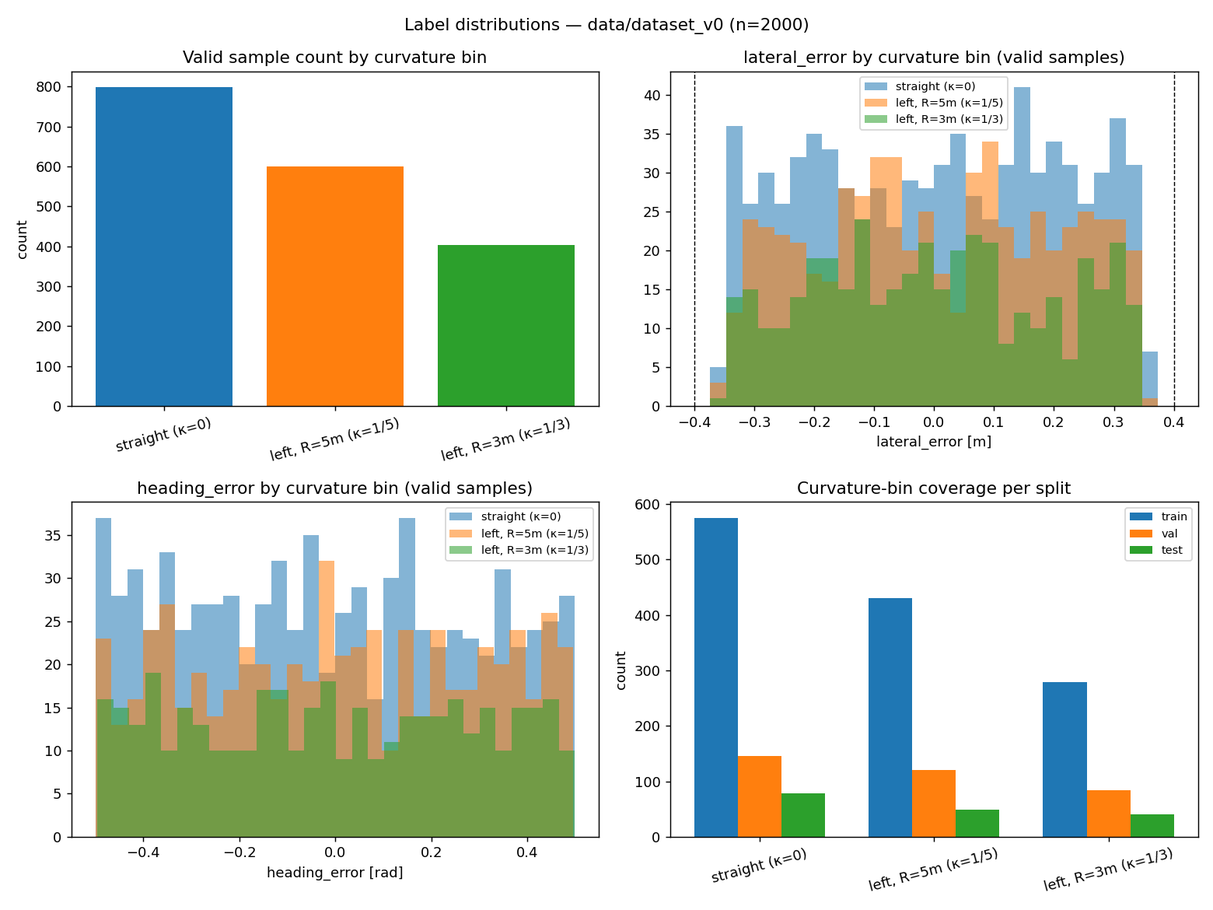
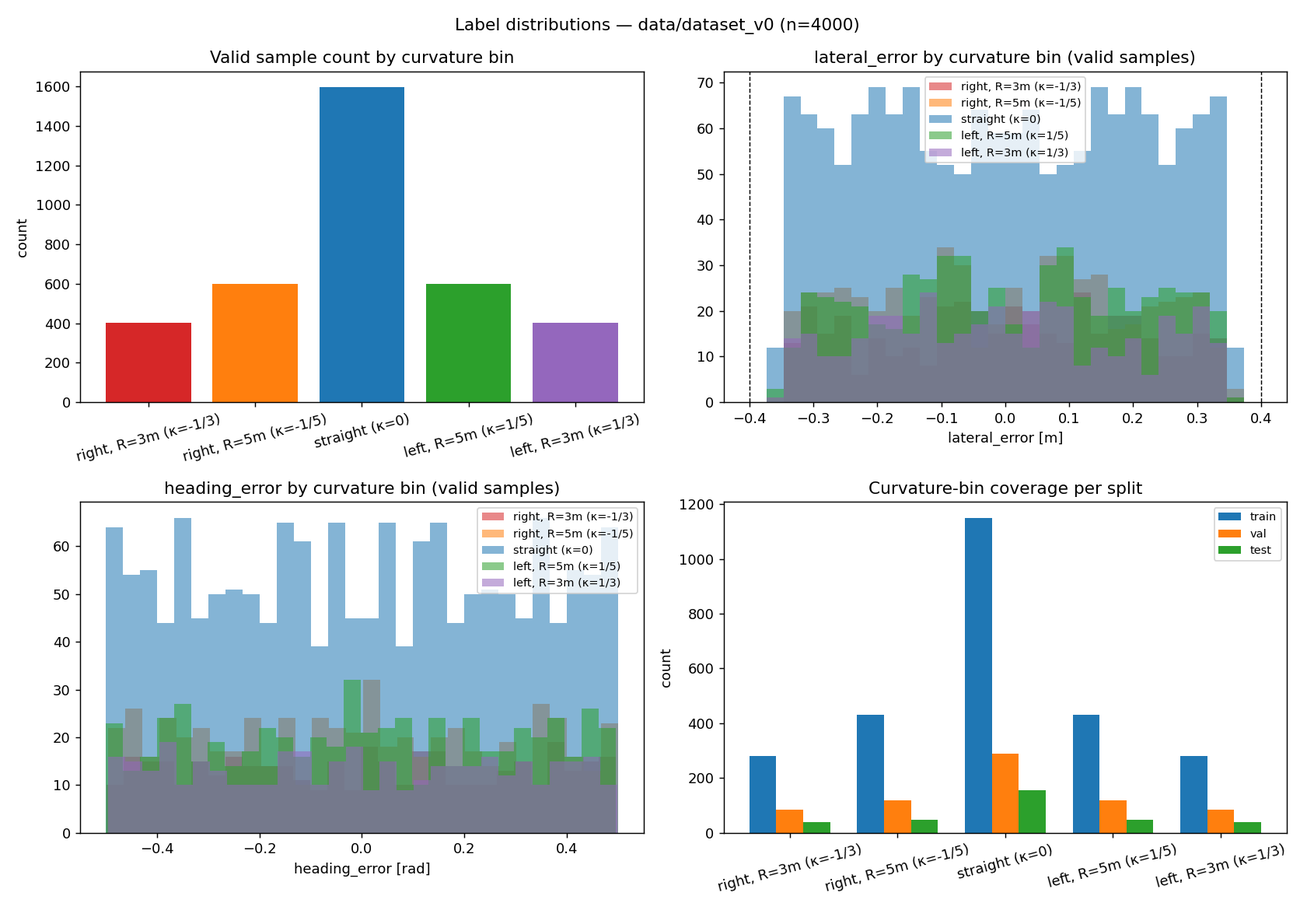
Mirror-augment dataset: track only turns left, dataset had zero right turns
label_distributions.png's curvature-bin bar chart has three bins, kappa in
{0, 1/5, 1/3}, all non-negative -- all 1800 valid samples had curvature >= 0.
Structural, not a sampling bug: REFERENCE_TRACK is a closed loop traversed
one way, built entirely from left turns (track_definitions.py). Every check
written so far (ADR-8's visibility filter, ADR-9's per-split curvature
coverage) operates on magnitude or visibility, both identical whether
curvature can go negative -- nothing but looking at the histogram catches
this, which is exactly the M1 risk register's point about mandatory visual
inspection.

A CNN trained on this learns curvature is non-negative as a hard prior and
never predicts a right turn, invisibly, since val/test are drawn from the
same left-only distribution.

Fix: mirror-augment every sample (generate_dataset.mirror_row). Image
flipped horizontally, lateral_error/heading_error/curvature negated, pose/
split/validity copied from the source unchanged (no "mirrored world pose"
exists to invent one). Exact, not approximate: cam_front has zero lateral
offset and zero yaw/roll (sim/models/car.xml), verified directly against
point_in_camera_frame that mirroring (vehicle_y, heading) negates the
camera-frame x-coordinate and leaves image row / depth exactly unchanged.
render_dataset_images.py never re-renders a mirror through MuJoCo -- it
flips the already-rendered source PNG, removing any risk of the analytic
[…]

diff --git a/perception/dataset/generate_dataset.py b/perception/dataset/generate_dataset.py
@@ -139,6 +139,50 @@ def quat_from_heading(heading: float):
     return (math.cos(heading / 2.0), 0.0, 0.0, math.sin(heading / 2.0))
 
 
+def mirror_row(row: dict) -> dict:
+    """The mirror-augmentation twin of a labeled sample: same rendered pose,
+    horizontally-flipped image, negated lane_state.
+
+    REFERENCE_TRACK is a closed loop traversed in one direction, built
+    entirely from LEFT turns (see track_definitions.py) -- every valid
+    sample has curvature >= 0, by construction of the track, not by a
+    sampling bug. A CNN trained on this would learn "curvature is
+    non-negative" and never predict a right turn. Caught by inspecting
+    label_distributions.png rather than any unit test (same method as
+    ADR-8/ADR-9: a property invisible until the whole dataset is looked at,
+    not any single sample).
+
+    The fix is exact, not approximate: cam_front has zero lateral offset
+    (sim/models/car.xml: pos="0.16 0 0.05", x-offset only) and zero
+    yaw/roll in its mount, so mirroring the world across the vehicle's
+    forward axis (y -> -y) is geometrically identical to flipping the
+    rendered image left-right -- verified directly against
+    point_in_camera_frame: mirroring (vehicle_y, heading) negates the
+    camera-frame x-coordinate (and therefore pixel column u -> W-1-u)
+    and leaves the camera-frame y-coordinate (pixel row v) and depth
+    exactly unchanged. lateral_error, heading_error, and curvature all
+    flip sign under this same y -> -y mirror by the sign convention in
+    docs/lane-state-contract.md section 2; confidence/valid/split are
+    unaffected (visibility and track-zone membership are unchanged by
+    mirroring).
+
+    x/y/heading/s are left as the SOURCE pose's values, not a fabricated
+    "mirrored world pose" -- there is no mirrored track to place a vehicle
+    on. That also means split (a pure function of s via zone_for_s) is
+    identical to the source row's split for free: a mirror never crosses a
+    train/val/test boundary its source didn't.
+    """
+    stem, ext = os.path.splitext(row["filename"])
+    mirrored = dict(row)
+    mirrored["filename"] = f"{stem}_mirror{ext}"
+    mirrored["source_filename"] = row["filename"]
+    mirrored["lateral_error"] = -row["lateral_error"]
+    mirrored["heading_error"] = -row["heading_error"]
+    mirrored["curvature"] = -row["curvature"]
+    mirrored["mirrored"] = True
+    return mirrored
+
+
 def generate_labels(seed: int = SEED, n_total: int = N_TOTAL):
     rng = np.random.default_rng(seed)
     n_negative = int(round(n_total * NEGATIVE_FRACTION))
@@ -155,6 +199,7 @@ def generate_labels(seed: int = SEED, n_total: int = N_TOTAL):
 
         rows.append({
             "filename": f"img_{i:05d}.png",
+            "source_filename": "",
             "x": x, "y": y, "heading": heading,
             "s": ls.s,
             "lateral_error": ls.lateral_error,
@@ -163,7 +208,10 @@ def generate_labels(seed: int = SEED, n_total: int = N_TOTAL):
             "confidence": confidence_target,
             "valid": confidence_target >= 0.5,
             "split": split,
+            "mirrored": False,
         })
+
+    rows += [mirror_row(r) for r in rows]
     return rows
 
 
@@ -182,8 +230,13 @@ if __name__ == "__main__":
     rows = generate_labels()
     labels_path = f"{DATASET_DIR}/labels.csv"
     write_labels_csv(rows, labels_path)
-    print(f"Generated {len(rows)} labels -> {labels_path}")
+    print(f"Generated {len(rows)} labels ({len(rows) // 2} rendered + "
+          f"{len(rows) // 2} mirrored) -> {labels_path}")
     print(f"  positive (valid): {sum(1 for r in rows if r['valid'])}")
     print(f"  negative (invalid): {sum(1 for r in rows if not r['valid'])}")
     for split in ("train", "val", "test"):
         print(f"  {split}: {sum(1 for r in rows if r['split'] == split)}")
+    n_pos_curv = sum(1 for r in rows if r["valid"] and r["curvature"] > 1e-6)
+    n_neg_curv = sum(1 for r in rows if r["valid"] and r["curvature"] < -1e-6)
+    print(f"  curvature: {n_pos_curv} left-turning, {n_neg_curv} right-turning "
+          f"(valid samples)")

diff --git a/tests/test_generate_dataset.py b/tests/test_generate_dataset.py
@@ -22,11 +22,16 @@ def test_generation_is_deterministic():
 
 
 def test_positive_negative_split_matches_config():
+    """generate_labels renders n_total base poses then mirrors every one
+    (see mirror_row / ADR-10), so the returned row count and the
+    valid/invalid split are both exactly double n_total's config-implied
+    values."""
     rows = generate_labels(seed=1, n_total=1000)
+    assert len(rows) == 2000
     n_valid = sum(1 for r in rows if r["valid"])
     n_invalid = sum(1 for r in rows if not r["valid"])
-    assert n_valid == 900
-    assert n_invalid == 100
+    assert n_valid == 1800
+    assert n_invalid == 200
 
 
 def test_positive_samples_within_declared_envelope():
@@ -133,3 +138,61 @@ def test_every_curvature_bin_present_in_every_split():
         assert got == curvature_bins, (
             f"split {split!r} missing curvature bin(s): {curvature_bins - got}"
         )
+
+
+# ---------------------------------------------------------------------------
+# Mirror augmentation (ADR-10). REFERENCE_TRACK is a closed loop traversed
+# one way, built entirely from left turns -- every valid sample has
+# curvature >= 0 by construction of the track, not a sampling defect. Caught
+# by looking at label_distributions.png (one bar chart, three bins, all
+# non-negative), not by any per-sample check, which is exactly why it went
+# unnoticed through ADR-8 and ADR-9's programmatic sweeps: both checked
+# properties that hold identically whether curvature can go negative or not.
+# ---------------------------------------------------------------------------
+
+def test_dataset_doubles_and_covers_both_curvature_signs():
+    rows = generate_labels(seed=1, n_total=2000)
+    assert len(rows) == 4000
+    n_pos_curv = sum(1 for r in rows if r["valid"] and r["curvature"] > 1e-6)
+    n_neg_curv = sum(1 for r in rows if r["valid"] and r["curvature"] < -1e-6)
+    assert n_pos_curv > 0 and n_neg_curv > 0, (
+        "mirroring must produce right-turning (curvature < 0) samples, not "
+        "just double up on left turns"
+    )
+    assert n_pos_curv == n_neg_curv, (
+        "every left-turning sample has exactly one mirrored right-turning "
+        "twin, so the counts must match exactly, not just both be nonzero"
+    )
+
+
+def test_mirror_row_negates_lane_state_and_preserves_everything_else():
+    rows = generate_labels(seed=1, n_total=200)
+    base = {r["filename"]: r for r in rows if not r["mirrored"]}
+    mirrors = {r["filename"]: r for r in rows if r["mirrored"]}
+    assert len(base) == len(mirrors) == 200
+
+    for name, src in base.items():
+        m = mirrors[f"{os.path.splitext(name)[0]}_mirror{os.path.splitext(name)[1]}"]
+        assert m["source_filename"] == name
+        assert m["lateral_error"] == -src["lateral_error"]
+        assert m["heading_error"] == -src["heading_error"]
+        assert m["curvature"] == -src["curvature"]
+        # Everything a mirror doesn't redefine must be untouched, including
+        # split -- a mirror is never allowed to land in a different split
+        # than its own source (that would be leakage introduced by the
+        # augmentation itself, defeating ADR-9).
+        assert m["x"] == src["x"] and m["y"] == src["y"] and m["heading"] == src["heading"]
+        assert m["s"] == src["s"]
+        assert m["confidence"] == src["confidence"]
+        assert m["valid"] == src["valid"]
+        assert m["split"] == src["split"]
+
+
+def test_mirror_filenames_are_unique_and_source_resolvable():
+    rows = generate_labels(seed=1, n_total=300)
+    names = [r["filename"] for r in rows]
+    assert len(names) == len(set(names))
+    all_filenames = set(names)
+    for r in rows:
+        if r["mirrored"]:
+            assert r["source_filename"] in all_filenames

diff --git a/perception/dataset/plot_label_distributions.py b/perception/dataset/plot_label_distributions.py
@@ -29,7 +29,16 @@ LABELS_CSV = f"{DATASET_DIR}/labels.csv"
 OUT_PNG = "docs/dataset/label_distributions.png"
 
 CURVATURE_BIN_TOL = 1e-6
+# Signed, not abs(curvature) -- binning by magnitude alone would silently
+# collapse left- and right-turning samples into the same bar and hide
+# exactly the defect ADR-10 documents (mirror augmentation adding
+# right-turning samples that didn't exist before). REFERENCE_TRACK itself
+# only ever turns left (track_definitions.py), so every negative-curvature
+# sample in the dataset is a mirror twin, by construction -- these bins are
+# also the fastest way to notice if that ever stops being true.
 CURVATURE_BINS = [
+    ("right, R=3m (κ=-1/3)", -1 / 3),
+    ("right, R=5m (κ=-1/5)", -1 / 5),
     ("straight (κ=0)", 0.0),
     ("left, R=5m (κ=1/5)", 1 / 5),
     ("left, R=3m (κ=1/3)", 1 / 3),
@@ -37,8 +46,8 @@ CURVATURE_BINS = [
 
 
 def curvature_bin_label(curvature: float) -> str:
-    for label, mag in CURVATURE_BINS:
-        if abs(abs(curvature) - mag) < CURVATURE_BIN_TOL:
+    for label, val in CURVATURE_BINS:
+        if abs(curvature - val) < CURVATURE_BIN_TOL:
             return label
     return f"other (κ={curvature:.3f})"
 
@@ -71,8 +80,9 @@ def main():
                   for label in bin_labels]
         print(f"  {split:5s} " + "  ".join(f"{label}={c}" for label, c in zip(bin_labels, counts)))
 
-    fig, axes = plt.subplots(2, 2, figsize=(12, 9))
-    colors = {bin_labels[0]: "tab:blue", bin_labels[1]: "tab:orange", bin_labels[2]: "tab:green"}
+    fig, axes = plt.subplots(2, 2, figsize=(13, 9))
+    palette = ["tab:red", "tab:orange", "tab:blue", "tab:green", "tab:purple"]
+    colors = dict(zip(bin_labels, palette))
 
     ax = axes[0, 0]
     counts = [sum(1 for r in valid_rows if r["bin"] == label) for label in bin_labels]

diff --git a/perception/dataset/render_dataset_images.py b/perception/dataset/render_dataset_images.py
@@ -82,7 +82,14 @@ def main():
     with open(LABELS_CSV) as f:
         rows = list(csv.DictReader(f))
 
-    for i, row in enumerate(rows):
+    # mirror rows (see generate_dataset.mirror_row) are not re-rendered
+    # through MuJoCo -- they're an exact horizontal flip of their source
+    # image (cam_front has zero lateral offset, verified in
+    # tests/test_generate_dataset.py), so the source must be rendered first.
+    base_rows = [r for r in rows if r["mirrored"] != "True"]
+    mirror_rows = [r for r in rows if r["mirrored"] == "True"]
+
+    for i, row in enumerate(base_rows):
         x, y, heading = float(row["x"]), float(row["y"]), float(row["heading"])
         qw, qx, qy, qz = quat_from_heading(heading)
 
@@ -95,8 +102,19 @@ def main():
         Image.fromarray(pixels).save(os.path.join(IMG_DIR, row["filename"]))
 
         if (i + 1) % 200 == 0:
-            print(f"{i + 1}/{len(rows)} rendered")
+            print(f"{i + 1}/{len(base_rows)} rendered")
 
+    print(f"Rendered {len(base_rows)} images -> {IMG_DIR}")
+
+    for i, row in enumerate(mirror_rows):
+        src_path = os.path.join(IMG_DIR, row["source_filename"])
+        mirrored = Image.open(src_path).transpose(Image.FLIP_LEFT_RIGHT)
+        mirrored.save(os.path.join(IMG_DIR, row["filename"]))
+
+        if (i + 1) % 200 == 0:
+            print(f"{i + 1}/{len(mirror_rows)} mirrored")
+
+    print(f"Mirrored {len(mirror_rows)} images -> {IMG_DIR}")
     print(f"Done: {len(rows)} images written to {IMG_DIR}")
 
 

diff --git a/docs/dataset-readme.md b/docs/dataset-readme.md
@@ -1,39 +1,44 @@
 # Dataset — M1
 
 **Location:** `data/dataset_v0/` (git-ignored — regenerate locally, see below)
-**Status:** Generated, split, and validated programmatically. See [`docs/decisions.md`](decisions.md) ADR-7, ADR-8, ADR-9 for the defects this process caught before training started.
+**Status:** Generated, split, mirror-augmented, and validated programmatically. See [`docs/decisions.md`](decisions.md) ADR-7 through ADR-10 for the defects this process caught before training started.
 
 ---
 
 ## 1. What it is
 
-2000 synthetic camera frames from a vehicle-mounted MuJoCo camera on `REFERENCE_TRACK` (a 45.13 m closed loop, see [`perception/dataset/track_definitions.py`](../perception/dataset/track_definitions.py)), each labeled with the ground-truth `/lane_state` the vehicle would have seen from that pose — the contract defined in [`docs/lane-state-contract.md`](lane-state-contract.md).
+4000 synthetic camera frames from a vehicle-mounted MuJoCo camera on `REFERENCE_TRACK` (a 45.13 m closed loop, see [`perception/dataset/track_definitions.py`](../perception/dataset/track_definitions.py)) — 2000 rendered poses plus their horizontally-mirrored twin (ADR-10) — each labeled with the ground-truth `/lane_state` the vehicle would have seen from that pose — the contract defined in [`docs/lane-state-contract.md`](lane-state-contract.md).
 
 | | |
 |---|---|
-| Total samples | 2000 |
-| Images | `data/dataset_v0/images/img_NNNNN.png`, 320×240 RGB, ~19.9 MB total |
-| Labels | `data/dataset_v0/labels.csv`, ~305 KB |
-| Valid (`valid=True`) | 1800 (90%) — vehicle in-lane, lane visible ahead |
-| Invalid (`valid=False`) | 200 (10%) — vehicle far off track, no lane marking anywhere in frame (confidence-head negatives) |
-| Split | train 1421 (71.1%) / val 386 (19.3%) / test 193 (9.7%) |
+| Total samples | 4000 (2000 rendered + 2000 mirrored) |
+| Images | `data/dataset_v0/images/img_NNNNN.png` + `img_NNNNN_mirror.png`, 320×240 RGB, ~40 MB total |
+| Labels | `data/dataset_v0/labels.csv`, ~610 KB |
+| Valid (`valid=True`) | 3600 (90%) — vehicle in-lane, lane visible ahead |
+| Invalid (`valid=False`) | 400 (10%) — vehicle far off track, no lane marking anywhere in frame (confidence-head negatives) |
+| Split | train 2842 (71.1%) / val 772 (19.3%) / test 386 (9.7%) |
+| Curvature sign | exactly symmetric: 403 samples at each of κ=±1/3, 599 at each of κ=±1/5 (ADR-10) |
 
 ## 2. Label schema (`labels.csv`)
 
 | Column | Meaning |
 |---|---|
 | `filename` | image file in `images/` |
-| `x`, `y`, `heading` | vehicle pose used to render the frame (world frame) |
+| `source_filename` | for a mirrored row, the base row it was flipped from; empty for base rows |
+| `x`, `y`, `heading` | vehicle pose used to render the frame (world frame) — a mirror row carries its **source's** pose, since there is no mirrored world to place a vehicle in; see ADR-10 |
 | `s` | arc length of the projection point on the centerline |
-| `lateral_error`, `heading_error`, `curvature` | the `/lane_state` ground truth at that pose — see the contract for sign conventions |
+| `lateral_error`, `heading_error`, `curvature` | the `/lane_state` ground truth at that pose — see the contract for sign conventions. Negated (not recomputed) for mirror rows |
 | `confidence`, `valid` | confidence-head training target; `valid = confidence >= 0.5` |
-| `split` | `train` / `val` / `test` |
+| `split` | `train` / `val` / `test` — identical between a mirror row and its source, by construction |
+| `mirrored` | `True` for the horizontally-flipped augmented rows, `False` for the rendered originals |
 
 ## 3. Distribution
 
 ![label distributions](dataset/label_distributions.png)
 
-Curvature only takes three values on this track (κ = 0, 1/5, 1/3 — the two arc radii), and every one of them is present in every split by construction (ADR-9) — verified by `test_every_curvature_bin_present_in_every_split`. `lateral_error` and `heading_error` are close to uniform across their declared envelopes for every curvature bin (no bias toward straight-line samples). Negative samples average 6.10 m off centerline (min 2.03 m, max 10.0 m) — deliberately easy negatives; see ADR-8 for why.
+Curvature takes five signed values on this track (κ ∈ {-1/3, -1/5, 0, 1/5, 1/3}), and every one is present in every split by construction (ADR-9 for the per-split stratification, ADR-10 for the sign symmetry) — verified by `test_every_curvature_bin_present_in_every_split` and `test_dataset_doubles_and_covers_both_curvature_signs`. `lateral_error` and `heading_error` are close to uniform across their declared envelopes for every curvature bin (no bias toward straight-line samples). Negative samples average 6.10 m off centerline (min 2.03 m, max 10.0 m) — deliberately easy negatives; see ADR-8 for why.
+
+**Read before M2:** `REFERENCE_TRACK` itself only ever turns left (`track_definitions.py`) — the negative-curvature half of the dataset exists entirely because of mirror augmentation, not because the vehicle ever drove a right turn. If the track geometry changes, re-check this bar chart before assuming right-turn coverage still holds.
 
 Regenerate this figure and its console breakdown (per-split, per-curvature-bin counts) with:
 
@@ -52,7 +57,7 @@ Per-channel mean/std, computed over the **train split only** (val/test stay unse
 }
 ```
 
-(RGB, `[0, 1]` scale.) Both training (M2) and `perception_node`'s inference-time preprocessing must load these from the same file rather than recomputing or hard-coding them — that consistency is NFR-8.
+(RGB, `[0, 1]` scale.) Both training (M2) and `perception_node`'s inference-time preprocessing must load these from the same file rather than recomputing or hard-coding them — that consistency is NFR-8. Numerically identical to the pre-mirror-augmentation values: a horizontal flip permutes pixel positions, not pixel values, so per-channel mean/std over the (now doubled) train split is unaffected — a useful sanity check in itself.
 
 Regenerate with:
 
@@ -66,17 +71,19 @@ Generation is seeded (`SEED = 42`) and deterministic — see `test_generation_is
 
 ```bash
 source venv/bin/activate
-python3 perception/dataset/generate_dataset.py       # labels.csv (headless, ~instant)
-python3 perception/dataset/render_dataset_images.py  # images/ (MuJoCo offscreen render, Mac-only, ~30s for 2000 frames)
+python3 perception/dataset/generate_dataset.py       # labels.csv: 2000 rendered + 2000 mirrored rows (headless, ~instant)
+python3 perception/dataset/render_dataset_images.py  # images/: renders the 2000 base poses (MuJoCo, Mac-only, ~25s), then mirrors them (~10s)
 python3 perception/dataset/plot_label_distributions.py
 python3 perception/dataset/compute_normalization_stats.py
 ```
 
-`generate_dataset.py` has no MuJoCo dependency and is fully covered by `tests/test_generate_dataset.py`; `render_dataset_images.py` only turns already-decided poses into pixels and carries no sampling logic of its own, so a rendering bug can never be confused with a labeling bug (see the module docstrings).
+`generate_dataset.py` has no MuJoCo dependency and is fully covered by `tests/test_generate_dataset.py`; `render_dataset_images.py` only turns already-decided poses into pixels (or, for a mirror row, flips an already-rendered one) and carries no sampling logic of its own, so a rendering bug can never be confused with a labeling bug (see the module docstrings).
 
 ## 6. Validation performed
 
-- `python3 -m pytest tests/ -q` — 29/29 passing, including label envelope, camera-visibility ground truth (`lane_is_visible`/`any_lane_visible` against every generated pose, not a resample), split-purity (`zone_for_s`), and curvature-coverage-per-split regression tests.
-- Every row's stored label recomputed independently from `(x, y, heading)` and diffed against the CSV (agrees to 1e-9).
+- `python3 -m pytest tests/ -q` — 34/34 passing, including label envelope, camera-visibility ground truth (`lane_is_visible`/`any_lane_visible` against every generated pose, not a resample), split-purity (`zone_for_s`), curvature-coverage-per-split, and mirror-augmentation regression tests (label negation, split preservation, left/right balance).
+- Every base row's stored label recomputed independently from `(x, y, heading)` and diffed against the CSV (agrees to 1e-9).
+- Every mirror row's label checked against its source row's negation directly from the CSV; a sample of mirror images checked **pixel-for-pixel** against a manual horizontal flip of their source image on disk (exact match, not just label agreement).
 - Every image file checked for correct dimensions and non-degenerate pixel content; CSV rows and image files verified 1:1.
 - No cross-split leakage: split is a pure function of `zone_for_s(s)`; nearest cross-split neighbor in arc length checked directly (closest pair ~6 mm in `s`, but differs by ≥0.1 m in `lateral_error` and/or ≥0.1 rad in `heading_error` — not a near-duplicate).
+- Left/right curvature balance checked per split, not just globally (403/403 at κ=±1/3, 599/599 at κ=±1/5, in every one of train/val/test).

diff --git a/docs/decisions.md b/docs/decisions.md
@@ -126,3 +126,23 @@ Recorded at the time each decision was made, not reconstructed afterward. Format
 **Decision:** Apply the 70/20/10 split independently **within each track primitive** (`zone_for_s` in `generate_dataset.py`), rather than once across the whole loop. Every primitive — and therefore every curvature value on the track — now contributes its own 70/20/10 to train/val/test, guaranteed by construction rather than by luck of where the loop-wide cut happens to fall.
 
 **Trade-off accepted:** this raises the number of train/val/test boundary points around the loop from 2 to 16 (one pair per primitive instead of one pair total), which is more opportunities for a train sample and a val/test sample to land close together in arc length `s`. Checked directly on the generated seed-42 dataset: the closest cross-split pair in `s` is ~6 mm, but every such close-in-`s` pair differs substantially in `lateral_error` and/or `heading_error` (sampled independently per pose), so none are near-duplicate images — the leakage property the original design protected still holds in practice, not just in theory. Regression tests: `test_split_has_no_leakage_across_track_zones` (split is a pure function of `zone_for_s(s)`) and `test_every_curvature_bin_present_in_every_split` (the defect this ADR documents, made permanent).
+
+---
+
+## ADR-10 — Mirror augmentation: the dataset had zero right turns
+
+**Context:** `REFERENCE_TRACK` is a closed loop traversed in one direction, built entirely from LEFT turns — two identical halves, each a straight followed by a 90° left arc (`track_definitions.py`). This is a property of the track geometry, not of the sampling code.
+
+**What looking at `label_distributions.png` caught:** the curvature-bin bar chart (`perception/dataset/plot_label_distributions.py`, the M1 histogram deliverable) has three bins — `κ ∈ {0, 1/5, 1/3}` — and every one of them is non-negative. All 1800 valid samples in the 2000-sample dataset had `curvature >= 0`. Every check written so far (ADR-8's visibility filter, ADR-9's per-split curvature coverage) operates on curvature *magnitude* or on visibility, both of which hold identically whether curvature can go negative or not — so nothing in the existing test suite could have caught this. It took literally looking at the bar chart to see that three bins meant three *magnitudes*, not five signed values.
+
+**Consequence if shipped as-is:** a CNN trained on this data would learn "curvature is non-negative" as a hard prior, not something inferred from the image, and would never predict a right turn regardless of what the camera sees. Worse, this would be invisible in validation, since val/test are drawn from the exact same left-only distribution as train (per ADR-9, correctly stratified — but stratified over a distribution that itself only contains one sign).
+
+**Decision:** Mirror-augment every sample. For each rendered pose, add a second row (`mirror_row()` in `generate_dataset.py`) with the image horizontally flipped and `lateral_error`, `heading_error`, `curvature` all negated; `x`/`y`/`heading`/`s`/`confidence`/`valid`/`split` are copied unchanged from the source (there is no "mirrored world pose" to invent — mirroring is a label-and-image-space transformation applied to the same rendered pose, not a new place to put the vehicle). A mirror is never assigned a different split than its source, since split is a pure function of the unchanged `s`.
+
+**Why the mirror is geometrically exact, not approximate:** `cam_front` has zero lateral offset in `sim/models/car.xml` (`pos="0.16 0 0.05"`, forward-only) and zero yaw/roll in its mount. Verified directly against `point_in_camera_frame`: negating `(vehicle_y, vehicle_heading)` negates the camera-frame `x`-coordinate exactly and leaves camera-frame `y` (image row) and depth exactly unchanged — i.e. mirroring the world across the vehicle's forward axis is *identical* to flipping the rendered image left-right, to floating-point precision, not an approximation that degrades off-axis.
+
+**Rendering:** mirrors are never re-rendered through MuJoCo — `render_dataset_images.py` renders every base pose once, then produces each mirror by loading the corresponding source PNG and flipping it (`Image.FLIP_LEFT_RIGHT`). Cheaper than re-rendering and removes any risk of the analytic mirror and the renderer's own left/right convention silently disagreeing.
+
+**Consequence:** dataset size doubles, 2000 → 4000 (1800 → 3600 valid), with curvature now exactly symmetric: 403 samples at each of `κ=±1/3`, 599 at each of `κ=±1/5`, per split as well as overall (`test_dataset_doubles_and_covers_both_curvature_signs`, `test_mirror_row_negates_lane_state_and_preserves_everything_else`). Per-channel normalization statistics (`perception/dataset/normalization_stats.json`) are numerically unchanged by this — a horizontal flip doesn't change a pixel value's distribution, only its position — which is itself a useful sanity check that mirroring didn't silently corrupt anything.
+
+**Method note:** same pattern as ADR-8 and ADR-9 — a property of the *whole dataset* (every sample sharing one sign) that is invisible in any single sample, any per-sample unit test, or any check phrased in terms of magnitude. The histogram deliverable that M1's own risk register calls for (SRS: "Mandatory visual inspection of labels before training") is what caught it, not the rejection-sampling tests, which is exactly the failure mode that requirement exists for.
